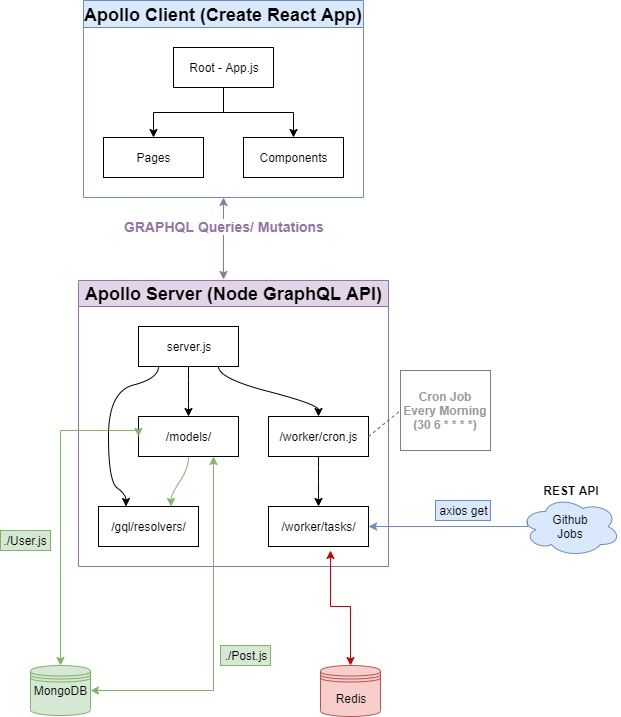
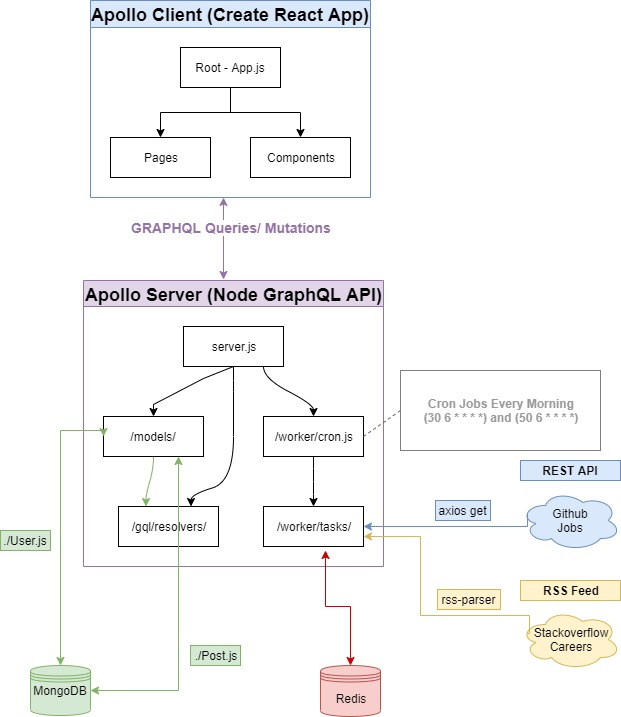
stackoveflow jobs added to client as jobs2

diff --git a/frontend/src/components/Jobs2.js b/frontend/src/components/Jobs2.js
@@ -1,0 +1,35 @@
+import React from 'react';
+import { useQuery } from '@apollo/react-hooks';
+import { Card } from 'semantic-ui-react';
+import { Link } from 'react-router-dom';
+import gql from 'graphql-tag';
+import moment from 'moment';
+
+const GET_JOBS2_QUERY = gql`{getJobs(key: "stackoverflow")}`;
+
+function Jobs2() {
+    const { loading, data } = useQuery(GET_JOBS2_QUERY);
+    return (
+      <div>
+        { loading ? <h1>loading...</h1> : (
+            JSON.parse(data.getJobs).map(job =>
+            { return (
+              <Card.Group>
+                  <Card fluid>
+                    <Card.Content>
+                      <Card.Header as={Link} to={`/jobs2/${job.guid}`}>{job.title}</Card.Header>
+                      <Card.Meta>{job.title}</Card.Meta>
+                      <Card.Meta>{moment(job.isoDate).fromNow()}</Card.Meta>
+                      <Card.Description>
+                      <div className="content" dangerouslySetInnerHTML={{__html: job.content.slice(0, 250)+"..."}}></div>
+                      </Card.Description>
+                    </Card.Content>
+                  </Card>
+                </Card.Group>
+            )})
+        )}
+     </div>
+    )
+}
+
+export default Jobs2;

diff --git a/frontend/src/App.js b/frontend/src/App.js
@@ -10,6 +10,7 @@ import Login from './pages/Login';
 import Register from './pages/Register';
 import Details from './pages/Details';
 import JobDetails from './pages/JobDetails';
+import JobDetails2 from './pages/JobDetails2';
 import Header from './components/Header';
 import { Container } from 'semantic-ui-react';
 import 'semantic-ui-css/semantic.min.css';
@@ -37,6 +38,7 @@ function App() {
             <Route exact path='/' component={Home}/>
             <Route exact path='/posts/:postID' component={Details}/>
             <Route exact path='/jobs/:jobID' component={JobDetails}/>
+            <Route exact path='/jobs2/:jobID' component={JobDetails2}/>
             <AuthRoute exact path='/Login' component={Login}/>
             <AuthRoute exact path='/Register' component={Register}/>
           </Router>

diff --git a/frontend/src/pages/JobDetails2.js b/frontend/src/pages/JobDetails2.js
@@ -1,0 +1,27 @@
+import React from 'react';
+import gql from 'graphql-tag';
+import { useQuery } from '@apollo/react-hooks';
+import SingleJob2 from '../components/SingleJob2';
+
+const GET_JOBS2_QUERY = gql`{getJobs(key: "stackoverflow")}`;
+
+const JobDetails2 = (props) => {
+    // get jobID from URL parameters
+    const id = props.match.params.jobID;
+    const { loading, data } = useQuery(GET_JOBS2_QUERY);
+    let job = []
+    if (!loading) {
+        job = JSON.parse(data.getJobs).filter(job => job.guid === id);
+    }
+
+    return (
+        <div>
+            { loading ? <h1>loading...</h1> :
+            <SingleJob2 job={job[0]} />
+            }
+        </div>
+    )
+};
+
+export default JobDetails2;
+

diff --git a/frontend/src/components/SingleJob2.js b/frontend/src/components/SingleJob2.js
@@ -1,0 +1,17 @@
+import React from 'react'
+import { Card } from 'semantic-ui-react';
+import moment from 'moment';
+
+const SingleJob2 = (props) => (
+        <Card fluid>
+            <Card.Content>
+                <Card.Header>{props.job.title}</Card.Header>
+                {props.job.title}
+                <Card.Meta>{moment(props.job.isoDate).fromNow()}</Card.Meta>
+                <h3> </h3>
+                <div className="content" dangerouslySetInnerHTML={{__html: props.job.content}}></div>
+            </Card.Content>
+        </Card>
+);
+
+export default SingleJob2

diff --git a/frontend/src/pages/Home.js b/frontend/src/pages/Home.js
@@ -4,6 +4,7 @@ import gql from 'graphql-tag';
 import Post from '../components/Post';
 import PostForm from '../components/PostForm';
 import Jobs from '../components/Jobs';
+import Jobs2 from '../components/Jobs2';
 import { AuthContext } from '../Auth';
 
 const GET_POSTS_QUERY = gql`
@@ -23,6 +24,7 @@ function Home() {
             )
         }
         <Jobs />
+        <Jobs2 />
      </div>
     )
 }
